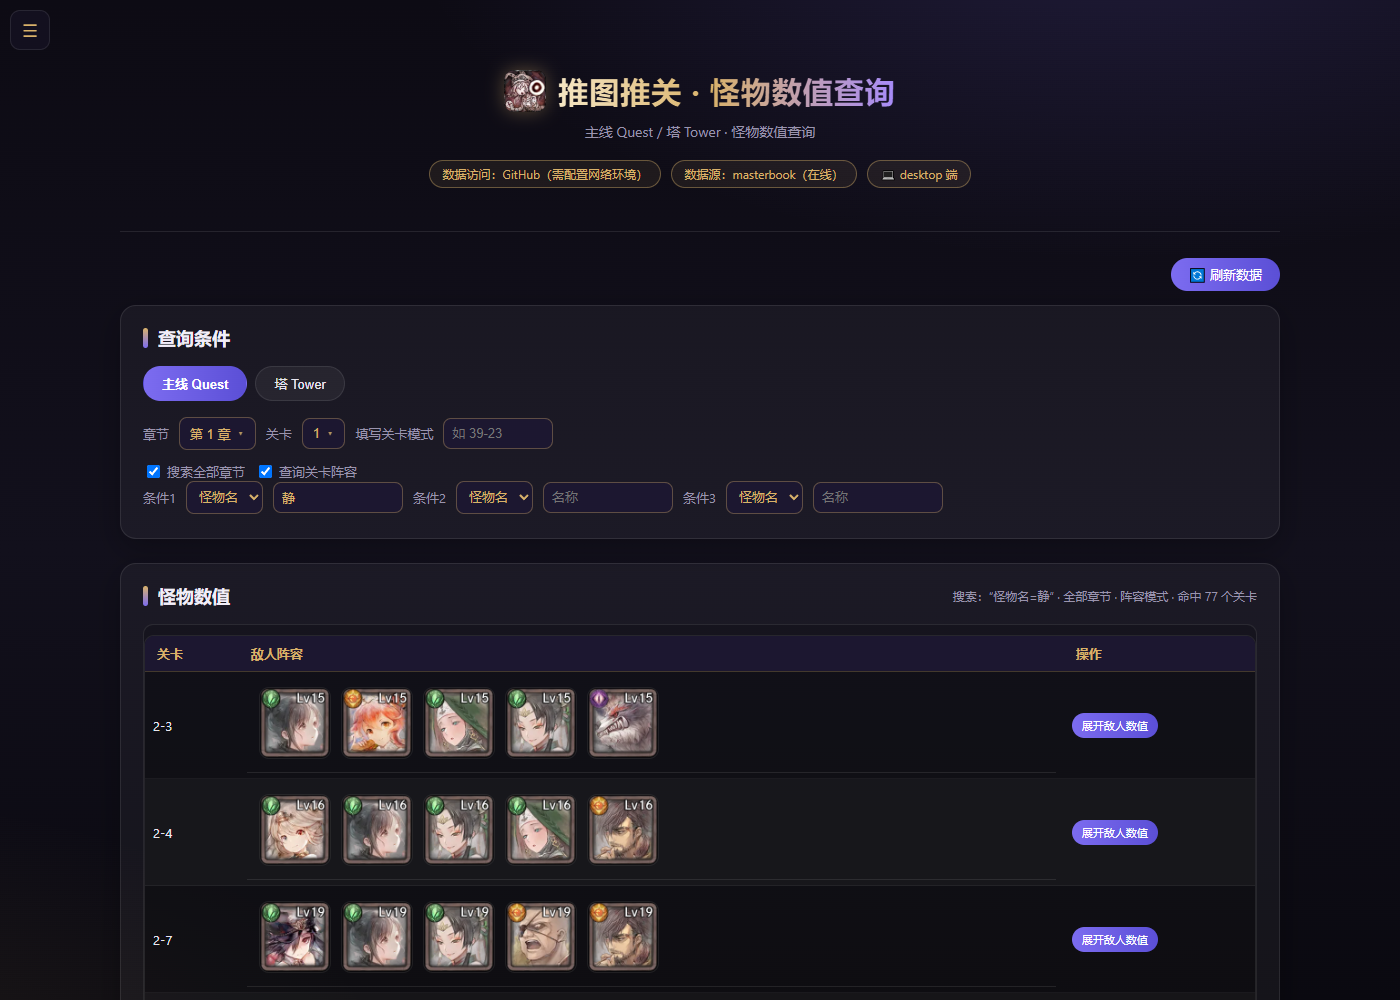
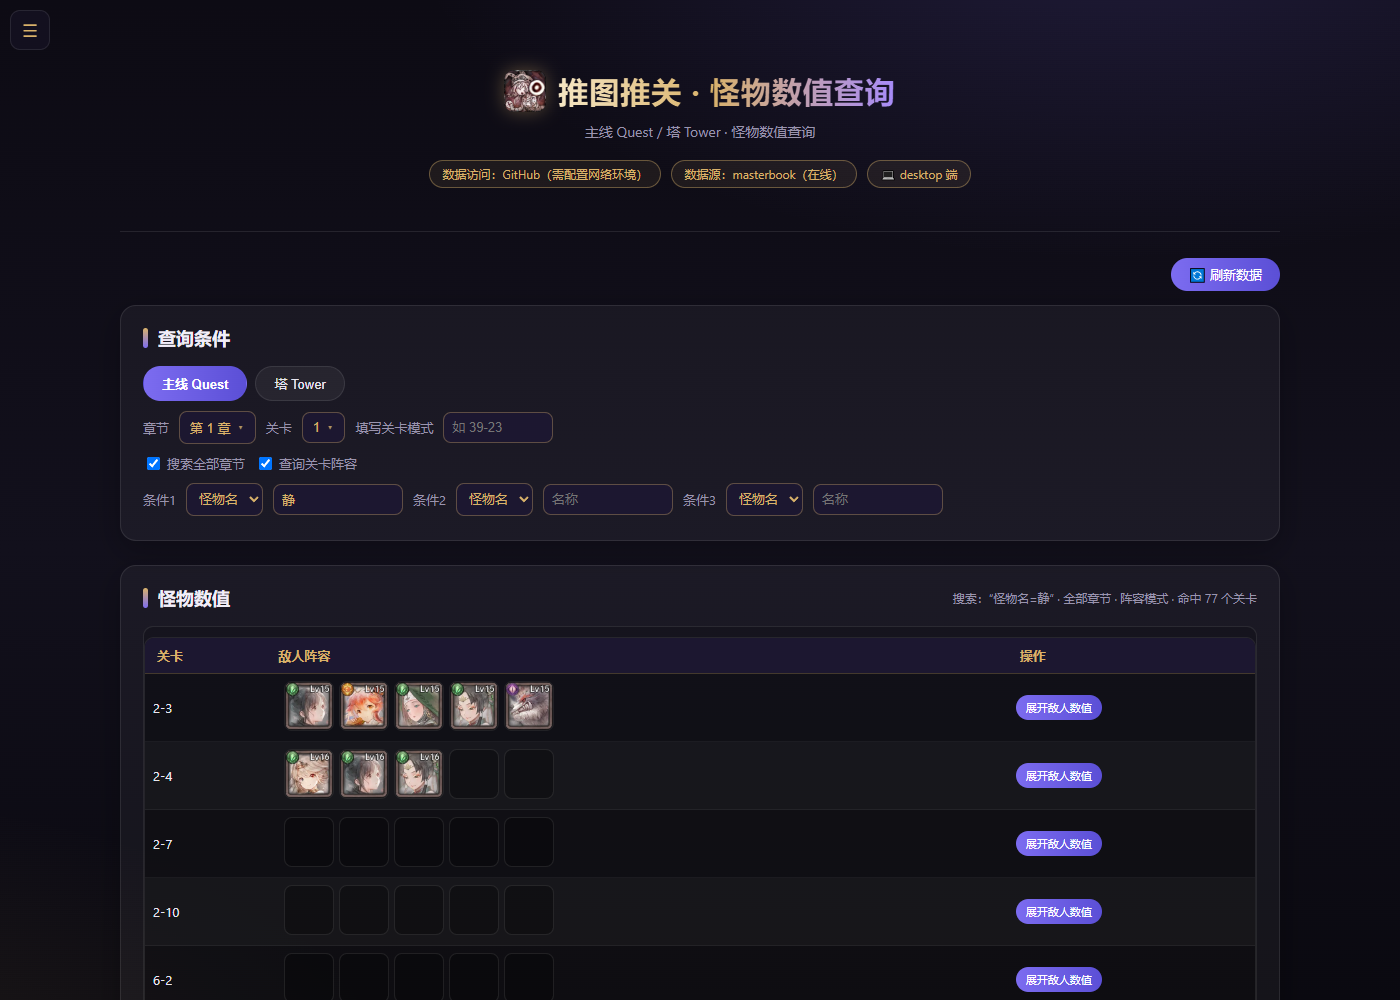
怪物页：查询条件区各行间距统一为10px；阵容模式表格行高紧凑(图标50px/行内边距3px)，移动端44px

diff --git a/monsters.html b/monsters.html
@@ -43,10 +43,10 @@ section.card{background:var(--panel);border:1px solid var(--panel-border);border
 section.card h2{display:flex;align-items:center;gap:10px;margin:0 0 16px;font-size:18px;color:#f1eef8}
 section.card h2::before{content:"";width:5px;height:20px;border-radius:3px;background:linear-gradient(180deg,var(--gold),var(--accent))}
 .h2-note{color:var(--muted);font-size:12px;font-weight:400;margin-left:auto}
-.tabs{display:flex;gap:8px;margin-bottom:16px}
+.tabs{display:flex;gap:8px;margin-bottom:10px}
 .tabs button{background:rgba(255,255,255,.05);border:1px solid var(--panel-border);color:var(--text);border-radius:999px;padding:8px 18px;font-size:13px;cursor:pointer}
 .tabs button.active{background:linear-gradient(90deg,#7c6cf0,#5b4fd6);color:#fff;border-color:transparent;font-weight:600}
-.qrow{display:flex;flex-wrap:wrap;gap:10px;align-items:center}
+.qrow{display:flex;flex-wrap:wrap;gap:10px;align-items:center;margin-top:10px}
 .qrow label{color:var(--muted);font-size:13px}
 .qrow select,.qrow input{background:#1c1730;color:var(--gold);border:1px solid rgba(217,178,106,.35);border-radius:8px;padding:7px 10px;font-size:13px;outline:none}
 .qrow .num-inp{width:64px;padding:7px 8px}
@@ -75,6 +75,9 @@ section.card h2::before{content:"";width:5px;height:20px;border-radius:3px;backg
 .sres-head .mini{margin-left:auto}
 .sres-full{display:none}
 .sres tbody td{padding:5px 8px}
+.sres .lineup-tbl td{padding:3px 8px}
+.sres .lineup-tbl .eicons{padding:4px 10px;gap:5px;border-bottom:0}
+.sres .lineup-tbl .eicon img{width:50px;height:50px;border-radius:8px}
 .sres .mini{padding:5px 10px;font-size:11px}
 .sres-full-head{display:flex;align-items:center;gap:10px;padding:10px 12px;border-bottom:1px solid var(--panel-border);background:#1c1730}
 .sres th.sortable{cursor:pointer;user-select:none}
@@ -133,6 +136,7 @@ body:not(.side-collapsed) .side-open{left:calc(345px - 52px)}
   thead th,tbody td{padding:7px 8px;font-size:12px}
   .qrow input[type=text]{width:120px}
   .eicon img{width:56px;height:56px}
+  .sres .lineup-tbl .eicon img{width:44px;height:44px}
 }
 html{scroll-behavior:smooth}
 section[id]{scroll-margin-top:16px}
@@ -208,7 +212,7 @@ section[id]{scroll-margin-top:16px}
       <label class="lbl-manual">填写关卡模式</label>
       <input id="inp-level-manual" class="num-inp" style="width:90px" placeholder="如 500" onchange="onQueryChange()">
     </div>
-    <div class="qrow" style="margin-top:12px;flex-wrap:wrap">
+    <div class="qrow" style="flex-wrap:wrap">
       <label class="chk"><input type="checkbox" id="chk-all" onchange="doSearch()"> 搜索全部章节</label><label class="chk"><input type="checkbox" id="chk-lineup" onchange="doSearch()"> 查询关卡阵容</label>
       <label id="lbl-tower-filter" style="display:none">塔类型</label><select id="sel-tower-filter" style="display:none" onchange="doSearch()"></select>
     </div>
@@ -756,7 +760,7 @@ function renderSearch(results, conds, all, lineup){
       + "</div>";
   }
   el.innerHTML = '<div class="sres">'
-    + '<div class="sres-list"><table><thead><tr>' + headers + "</tr></thead><tbody>" + rowsHtml + "</tbody></table></div>"
+    + '<div class="sres-list"><table' + (groupMode ? ' class="lineup-tbl"' : '') + '><thead><tr>' + headers + "</tr></thead><tbody>" + rowsHtml + "</tbody></table></div>"
     + fulls
     + "</div>";
 }
